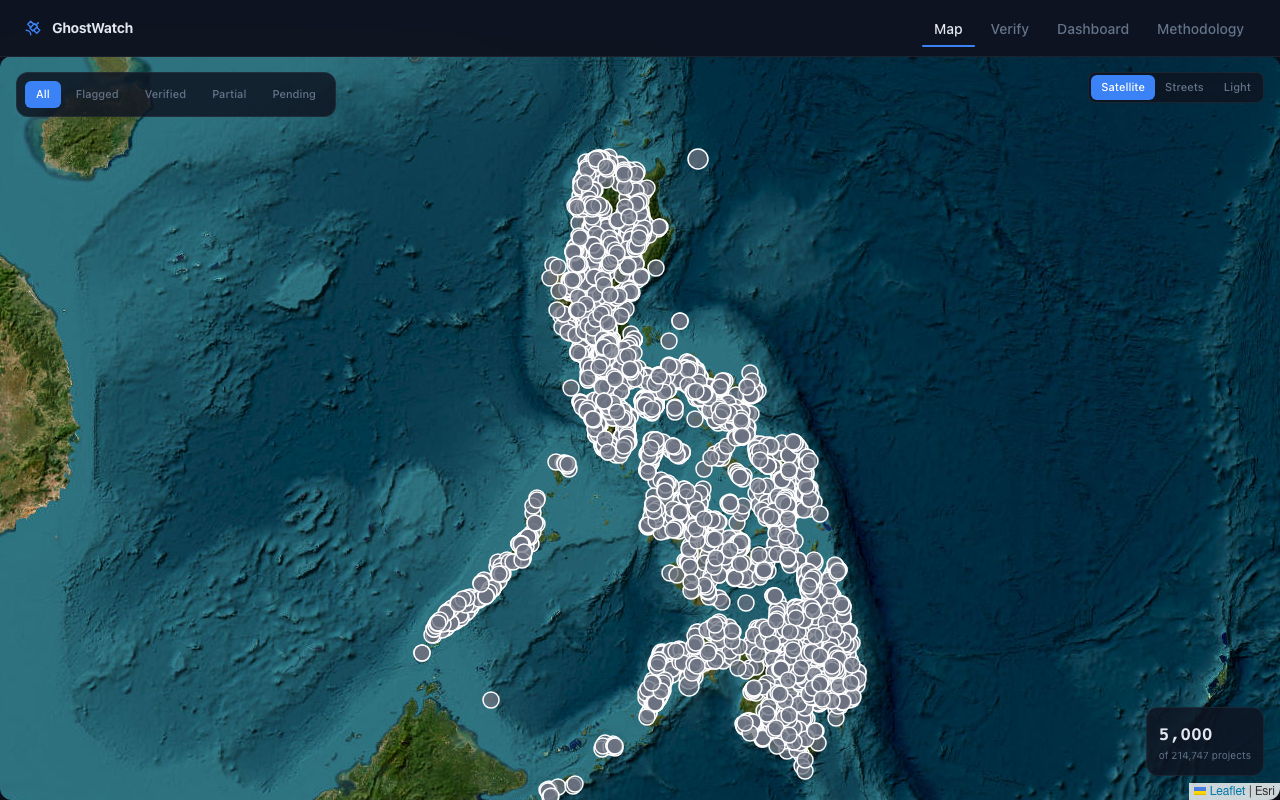
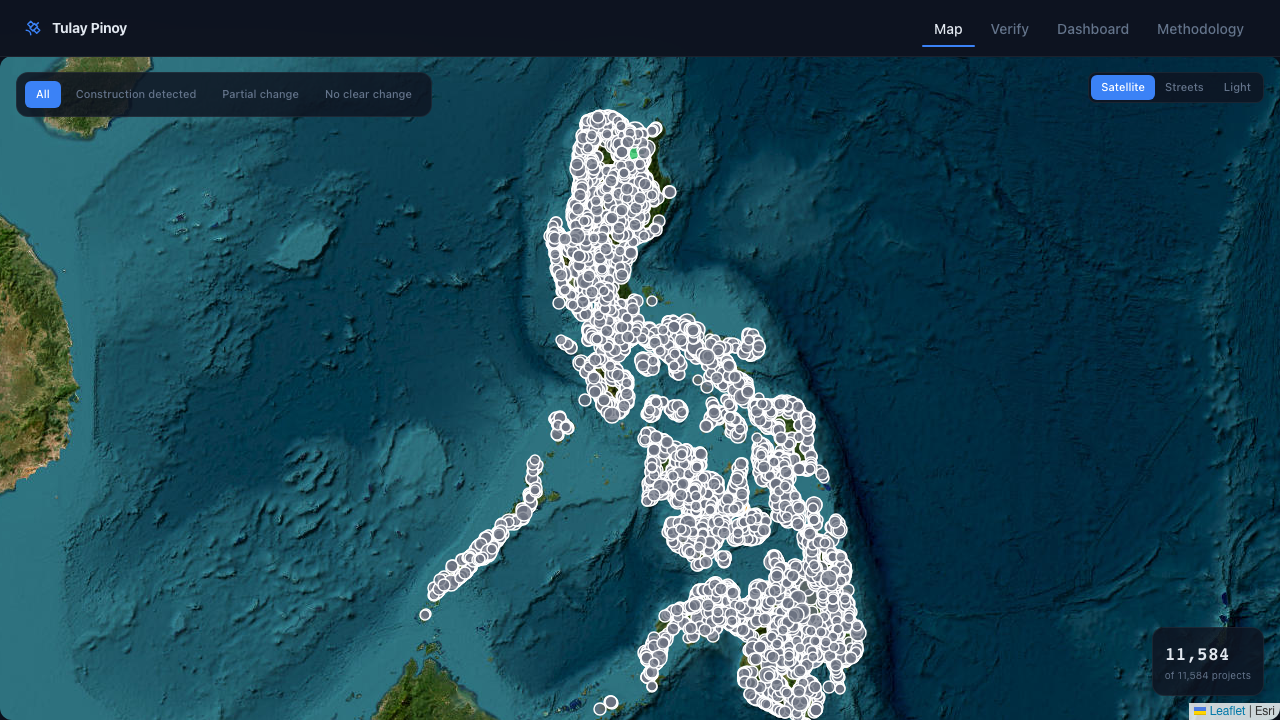
Public-ready: README, docs, real live demo, classifier threshold
- Rewrite the README lead around the live tulaypinoy.ph deployment and the
  "offline tool, now deployed" story; remove the unverified Panguil Bay Bridge
  claim and the ghost-framed demo GIFs.
- Replace demo assets with a real recording and screenshots of the live site
  (docs/demo/tour.gif, docs/screenshots/*).
- Document the static build pipeline (bake_bridges, bake_satellite, vercel).
- Add the standard doc set: CITATION.cff, CHANGELOG, CONTRIBUTING, SECURITY,
  CODE_OF_CONDUCT.
- Wire ghost_confidence_threshold through is_ghost_project (was a hardcoded
  literal) and reconcile the methodology copy: for bridges, no clear signal is
  reported as inconclusive, never as a ghost flag.

diff --git a/web/src/app/methodology/page.tsx b/web/src/app/methodology/page.tsx
@@ -139,10 +139,10 @@ export default function MethodologyPage() {
                     color: "var(--color-partial)",
                   },
                   {
-                    label: "No Change",
+                    label: "No Clear Change",
                     condition: "Below all thresholds",
-                    interp: "No detectable construction activity",
-                    color: "var(--color-ghost)",
+                    interp: "Inconclusive — often a span below 10m resolution, not a missing bridge",
+                    color: "var(--color-text-muted)",
                   },
                 ].map((row) => (
                   <tr
@@ -175,8 +175,13 @@ export default function MethodologyPage() {
             </table>
           </div>
           <p className="mt-3 text-xs leading-relaxed" style={{ color: "var(--color-text-muted)" }}>
-            Flag determination applies only to projects marked &quot;completed&quot; by the reporting
-            agency. &quot;No Change&quot; with confidence ≥ 0.70 triggers a review flag.
+            On this site a completed bridge with no clear satellite signal is reported as
+            <strong> inconclusive — never flagged as a ghost</strong>. Bridge spans are usually
+            narrow and over water, below what 10m optical imagery can resolve, so the absence of
+            a signal is not evidence the bridge is missing. The open-source tool can flag
+            completed-but-no-change projects for review (configurable confidence threshold,
+            default 0.70); for bridges that capability is deliberately held back in favor of an
+            honest &quot;inconclusive&quot;.
           </p>
         </section>
 

diff --git a/scripts/bake_satellite.py b/scripts/bake_satellite.py
@@ -88,9 +88,7 @@ def init_gee():
             ee.Initialize(creds)
             print(f"GEE initialized via service account: {key['client_email']}")
             return ee
-    raise SystemExit(
-        "No GEE service-account key found. Set GHOSTWATCH_EE_KEY to a key JSON path."
-    )
+    raise SystemExit("No GEE service-account key found. Set GHOSTWATCH_EE_KEY to a key JSON path.")
 
 
 def composite(ee, region, start, end):
@@ -146,7 +144,8 @@ def main():
                 ndbi = swir.subtract(nir).divide(swir.add(nir)).rename("NDBI")
                 ndvi = nir.subtract(red).divide(nir.add(red)).rename("NDVI")
                 bsi = (
-                    swir.add(red).subtract(nir.add(blue))
+                    swir.add(red)
+                    .subtract(nir.add(blue))
                     .divide(swir.add(red).add(nir.add(blue)))
                     .rename("BSI")
                 )
@@ -176,18 +175,22 @@ def main():
                 rgb_ok = export_png(rgb_url, tile_dir / f"{label_short(label)}_rgb.png")
                 ndbi_ok = export_png(ndbi_url, tile_dir / f"{label_short(label)}_ndbi.png")
 
-                stats = ee.Image([ndbi, ndvi, bsi]).reduceRegion(
-                    reducer=ee.Reducer.mean(), geometry=region, scale=10, maxPixels=1e7
-                ).getInfo()
+                stats = (
+                    ee.Image([ndbi, ndvi, bsi])
+                    .reduceRegion(
+                        reducer=ee.Reducer.mean(), geometry=region, scale=10, maxPixels=1e7
+                    )
+                    .getInfo()
+                )
                 metrics[label] = {
                     "ndbi": stats.get("NDBI"),
                     "ndvi": stats.get("NDVI"),
                     "bsi": stats.get("BSI"),
                 }
-                print(
-                    f"  {label}: RGB={'ok' if rgb_ok else 'FAIL'} NDBI={'ok' if ndbi_ok else 'FAIL'}"
-                    f"  ndbi={fmt(stats.get('NDBI'))} ndvi={fmt(stats.get('NDVI'))} bsi={fmt(stats.get('BSI'))}"
-                )
+                n, v, b = fmt(stats.get("NDBI")), fmt(stats.get("NDVI")), fmt(stats.get("BSI"))
+                rgb_s = "ok" if rgb_ok else "FAIL"
+                ndbi_s = "ok" if ndbi_ok else "FAIL"
+                print(f"  {label}: RGB={rgb_s} NDBI={ndbi_s}  ndbi={n} ndvi={v} bsi={b}")
                 if not (rgb_ok and ndbi_ok) or stats.get("NDBI") is None:
                     ok = False
 

diff --git a/scripts/bake_bridges.py b/scripts/bake_bridges.py
@@ -214,9 +214,7 @@ def build_charts(br: pd.DataFrame) -> dict:
 
     # Completion rate by region — bar
     total_by_reg = br[br["region"] != ""].groupby("region").size()
-    comp_by_reg = (
-        br[(br["region"] != "") & (br["status"] == "COMPLETED")].groupby("region").size()
-    )
+    comp_by_reg = br[(br["region"] != "") & (br["status"] == "COMPLETED")].groupby("region").size()
     regional = []
     for region in reg["region"]:
         t = int(total_by_reg.get(region, 0))
@@ -238,9 +236,7 @@ def build_charts(br: pd.DataFrame) -> dict:
     for year in sorted(yr["infra_year"].unique()):
         sub = yr[yr["infra_year"] == year]
         total_val = float(sub["contract_amount"].fillna(0).sum()) / 1e9
-        comp_val = (
-            float(sub[sub["status"] == "COMPLETED"]["contract_amount"].fillna(0).sum()) / 1e9
-        )
+        comp_val = float(sub[sub["status"] == "COMPLETED"]["contract_amount"].fillna(0).sum()) / 1e9
         yearly.append(
             {
                 "year": str(year),
@@ -290,7 +286,8 @@ def build_bridges_geojson(br: pd.DataFrame) -> dict:
         )
     fc = {"type": "FeatureCollection", "features": features}
     return envelope(
-        fc, meta={"query_time_ms": 0, "feature_count": len(features), "total_matching": len(features)},
+        fc,
+        meta={"query_time_ms": 0, "feature_count": len(features), "total_matching": len(features)},
         disclaimer=False,
     )
 
@@ -356,7 +353,7 @@ def main() -> None:
         conf = {pid: r["confidence"] for pid, r in showcase.items()}
         br["satellite_score"] = br["id"].map(conf)
 
-    print(f"Bridges: {len(br)}  with coords: {int(br[['lat','lng']].notna().all(axis=1).sum())}")
+    print(f"Bridges: {len(br)}  with coords: {int(br[['lat', 'lng']].notna().all(axis=1).sum())}")
     print(f"Showcase verifications merged: {len(showcase)}")
 
     OUT.mkdir(parents=True, exist_ok=True)
@@ -368,7 +365,10 @@ def main() -> None:
 
     manifest = {
         "built_at": datetime.now(timezone.utc).isoformat(timespec="seconds"),
-        "source": "DPWH transparency data (HuggingFace bettergovph/dpwh-transparency-data), category == bridges",
+        "source": (
+            "DPWH transparency data (HuggingFace bettergovph/dpwh-transparency-data), "
+            "category == bridges"
+        ),
         "total_bridges": len(br),
         "bridges_with_coordinates": int(br[["lat", "lng"]].notna().all(axis=1).sum()),
         "total_contract_value_php": float(br["contract_amount"].fillna(0).sum()),
@@ -379,8 +379,8 @@ def main() -> None:
 
     for name, h in hashes.items():
         size = (OUT / name).stat().st_size
-        print(f"  {name:16} {size/1024:8.1f} KB  {h[:12]}")
-    print(f"Wrote {len(hashes)+1} files to {OUT}")
+        print(f"  {name:16} {size / 1024:8.1f} KB  {h[:12]}")
+    print(f"Wrote {len(hashes) + 1} files to {OUT}")
 
 
 if __name__ == "__main__":

diff --git a/ghostwatch/core/classifier.py b/ghostwatch/core/classifier.py
@@ -85,16 +85,23 @@ def is_ghost_project(
     status: str,
     classification: ChangeClass,
     confidence: float,
-    threshold: float = 0.70,
+    threshold: float | None = None,
 ) -> tuple[bool, str]:
     """Determine if a project should be flagged for review.
 
     A project is flagged when it is reported as completed but satellite
     analysis shows no evidence of construction activity.
 
+    When ``threshold`` is None the configurable ``ghost_confidence_threshold``
+    setting is used (default 0.70), so the documented threshold is the one that
+    actually drives the flag.
+
     Returns:
         (flagged, reason_string)
     """
+    if threshold is None:
+        threshold = get_settings().ghost_confidence_threshold
+
     if status != "completed":
         return False, "project_not_completed"
 

diff --git a/README.md b/README.md
@@ -4,53 +4,33 @@
 [![Python 3.11+](https://img.shields.io/badge/python-3.11+-blue.svg)](https://www.python.org/downloads/)
 [![Next.js 14](https://img.shields.io/badge/Next.js-14-black.svg)](https://nextjs.org/)
 
-Satellite verification of government infrastructure — see it from space.
+Satellite verification of public infrastructure: see whether it was built, from space.
 
-GhostWatch cross-references government contract records against Sentinel-2 satellite imagery to surface projects reported as complete with no visible construction evidence. It ingests 248,220 DPWH infrastructure projects totaling PHP 6.38 trillion, computes spectral change indices across before/after satellite composites, and classifies each site into one of five construction-evidence categories. Projects flagged for review are surfaced through a dark-themed web dashboard with before/after satellite sliders, an interactive map of all 214,747 geolocated sites, and regional analytics.
+GhostWatch is an open-source tool. Point it at a government's infrastructure records and it cross-references each project against free Sentinel-2 satellite imagery, computing before/after spectral change to look for visible construction. It ships as a Python pipeline, a FastAPI backend, and a Next.js dashboard you can clone and run locally against the full 248,220-project Philippine DPWH dataset (PHP 6.38 trillion in contracts, 214,747 geolocated sites).
 
-<p align="center">
-  <img src="docs/demo/tour.gif" alt="GhostWatch Demo" width="800">
-</p>
-
-<p align="center"><em>248,220 real DPWH projects — satellite map explorer, budget analytics, spectral methodology, and regional breakdown across 18 regions and PHP 6.38 trillion in contracts.</em></p>
-
-### Satellite Verification
+**Live: [tulaypinoy.ph](https://tulaypinoy.ph)** — a curated, fully static, bridges-only build of this tool, deployed on Vercel with no backend. Every one of the Philippines' 12,558 DPWH bridge projects (PHP 382.4 billion), mapped from the public record, plus a Sentinel-2 before/after showcase over 16 real completed bridges. The Python pipeline runs at build time and bakes real data into static JSON and PNG the site reads directly off the edge. A few months ago this was an offline tool anyone could clone and deploy; this is what deploying it looks like.
 
 <p align="center">
-  <img src="docs/demo/construction-timeline.gif" alt="Construction Detected from Satellite" width="800">
+  <img src="docs/demo/tour.gif" alt="Tulay Pinoy live tour" width="800">
 </p>
 
-<p align="center"><em>Real construction is visible from space — Panguil Bay Bridge (PHP 6.7B) goes from open water to a completed span between 2020 and 2024.</em></p>
+<p align="center"><em><a href="https://tulaypinoy.ph">tulaypinoy.ph</a> — 12,558 DPWH bridges mapped from public data, with a real Sentinel-2 before/after showcase.</em></p>
 
-<p align="center">
-  <img src="docs/demo/ghost-timeline.gif" alt="Ghost Project Satellite Timeline" width="800">
-</p>
+### What the satellite actually shows
 
-<p align="center"><em>Ghost projects are not — 4 completed projects totaling PHP 6.3B show zero visible construction activity in the same period.</em></p>
-
-<p align="center">
-  <img src="docs/demo/before-after.gif" alt="Before/After Satellite Comparison" width="800">
-</p>
-
-<p align="center"><em>Side-by-side comparison — 3 projects with visible construction vs 3 flagged projects with no detectable change between 2020 and 2024.</em></p>
-
-<p align="center">
-  <img src="docs/demo/verify.gif" alt="Satellite Verification UI" width="800">
-</p>
-
-<p align="center"><em>Before/after satellite slider with real Sentinel-2 imagery, spectral index changes (NDBI/NDVI/BSI), and confidence scoring per project.</em></p>
+At 10-meter resolution, free optical satellite reliably picks up construction on large land footprints (interchanges, bypass embankments) but often cannot resolve a narrow bridge span over water: the built-up signal is swamped by a buffer that is mostly water and banks. So the showcase reports three honest states, construction detected, partial change, and no clear change (inconclusive), and never labels a real, completed bridge a "ghost." A satellite read is a prompt for review, not a verdict. Of the 16 bridges checked, 1 shows clear construction, 6 show partial change, and 9 fall below what 10-meter imagery can resolve.
 
 ### Screenshots
 
 | Interactive Map | Analytics Dashboard |
 |:---:|:---:|
-| ![Map view](docs/screenshots/ghostwatch-map.png) | ![Dashboard](docs/screenshots/ghostwatch-dashboard.png) |
+| ![Map view](docs/screenshots/map.png) | ![Dashboard](docs/screenshots/dashboard.png) |
 
-| Hero Landing | Methodology |
+| Satellite Showcase | Methodology |
 |:---:|:---:|
-| ![Hero](docs/screenshots/ghostwatch-hero.png) | ![Methodology](docs/screenshots/ghostwatch-methodology.png) |
+| ![Verify](docs/screenshots/verify.png) | ![Methodology](docs/screenshots/methodology.png) |
 
-<p align="center"><em>Dark cinematic UI — satellite map overlay, real-time budget charts, spectral index reference, and animated project counters.</em></p>
+<p align="center"><em>Dark cinematic UI: 11,584 geolocated bridges on a satellite basemap, budget and completion analytics, before/after spectral comparison, and the full methodology.</em></p>
 
 ---
 
@@ -151,6 +131,30 @@ ghostwatch verify 14.5995 120.9842 \
 ghostwatch serve           # API on :8000
 cd web && npm run dev      # UI on :3000
 ```
+
+---
+
+## Live deployment: tulaypinoy.ph
+
+[tulaypinoy.ph](https://tulaypinoy.ph) is a separate outcome from the local tool above: a curated, **bridges-only, fully static** snapshot served by Vercel with no backend. The Python pipeline runs once at build time and bakes real DPWH + satellite data into static files the Next.js app reads directly.
+
+```bash
+# 1. Bake the bridges dataset (real DPWH parquet -> static JSON, no GEE needed)
+python3 scripts/bake_bridges.py
+#   -> web/public/data/{overview,charts,bridges,cases}.json  (+ manifest)
+
+# 2. Bake the satellite showcase (Sentinel-2 before/after over 16 real bridges)
+GHOSTWATCH_EE_KEY=/path/to/ee-key.json python3 scripts/bake_satellite.py
+#   -> web/public/data/tiles/<id>/{before,after}_{rgb,ndbi}.png
+#   -> data/showcase/verifications.json   (then re-run bake_bridges to merge)
+python3 scripts/bake_bridges.py
+
+# 3. Build the static export and deploy
+cd web && npm run build    # output: 'export' -> web/out/
+vercel deploy --prod       # or push to main (git auto-deploy, rootDir=web)
+```
+
+The frontend ([`web/`](web/)) is the same dashboard as the local tool, switched to `output: 'export'` and reading `/data/*` instead of the API. `web/vercel.json` adds the security headers and edge caching. No mock data is used anywhere — every published number is recomputed from the DPWH parquet, and every satellite read is real Sentinel-2 model output, curated honestly (no real bridge is labeled a ghost). See [`scripts/bake_bridges.py`](scripts/bake_bridges.py) and [`scripts/bake_satellite.py`](scripts/bake_satellite.py).
 
 ---
 

diff --git a/CONTRIBUTING.md b/CONTRIBUTING.md
@@ -1,0 +1,39 @@
+# Contributing
+
+Thanks for your interest in GhostWatch.
+
+## Ground rules
+
+- **No mock or fabricated data.** Every published number must be computed from a
+  real source (the DPWH parquet) or a real model run (Sentinel-2 via GEE). Label
+  anything provisional.
+- **Conservative language.** A satellite read is a prompt for review, not a
+  verdict. Never label a real, named project a "ghost" or "fraud" in any
+  user-facing surface. Keep disclaimers on analytics output.
+- Match the existing code style. Python is 3.11+, `ruff` for lint/format; the
+  frontend is TypeScript + Next.js.
+
+## Development setup
+
+```bash
+pip install -e ".[dev]"        # Python library + CLI + tests
+cd web && npm install          # frontend
+```
+
+## Before opening a PR
+
+```bash
+ruff check . && ruff format --check .
+python3 -m pytest -q
+cd web && npm run build        # static export must succeed
+```
+
+- Add a test for any behavior change in the classifier, indices, or adapters.
+- If you change the live data shape, re-run `scripts/bake_bridges.py` and verify
+  the frontend still renders.
+- Update `CHANGELOG.md`.
+
+## Reporting issues
+
+Open a GitHub issue with steps to reproduce. For anything security-related, see
+[SECURITY.md](SECURITY.md).

diff --git a/CHANGELOG.md b/CHANGELOG.md
@@ -1,0 +1,36 @@
+# Changelog
+
+All notable changes to this project are documented here. Format loosely follows
+[Keep a Changelog](https://keepachangelog.com/).
+
+## [1.0.0] - 2026-06-04
+
+### Added
+- **Live deployment at [tulaypinoy.ph](https://tulaypinoy.ph)** — a curated,
+  bridges-only, fully static build served by Vercel with no backend.
+- `scripts/bake_bridges.py` — bakes the bridges subset of the DPWH dataset
+  (12,558 bridges, 11,584 geolocated, PHP 382.4B) into static JSON
+  (`overview`, `charts`, `bridges` GeoJSON, `cases`) the frontend reads directly.
+- `scripts/bake_satellite.py` — Sentinel-2 before/after change-detection over a
+  curated set of 16 real completed bridges; exports RGB + NDBI tiles and a
+  per-bridge verification record. Reuses a GEE service-account key.
+- Static export of the Next.js dashboard (`output: 'export'`), reading
+  `/data/*` instead of the API; `web/vercel.json` with CSP/HSTS security headers
+  and `/data` edge caching + CORS.
+- `INCONCLUSIVE` verification state: a completed bridge with no clear satellite
+  signal is reported as inconclusive (often a span below 10m resolution), never
+  flagged as a "ghost."
+
+### Changed
+- Frontend rebranded to **Tulay Pinoy**; conservative civic language and a
+  disclaimer on every analytics surface.
+- Map renders all geolocated bridges via a canvas renderer for performance.
+
+### Fixed / Hardened
+- API CORS locked to GET-only without credentials.
+- Tile `project_id` sanitized against path traversal.
+- Removed the unused `admin_api_key`.
+- `ghost_confidence_threshold` is now wired through `is_ghost_project` instead of
+  a hardcoded literal.
+- Removed an unverified "Panguil Bay Bridge" claim from the README and replaced
+  the demo assets with real recordings/screenshots of the live site.

diff --git a/SECURITY.md b/SECURITY.md
@@ -1,0 +1,23 @@
+# Security Policy
+
+## Reporting a vulnerability
+
+Please report security issues privately by email to **[email redacted]** rather
+than opening a public issue. Include steps to reproduce and the affected
+component (Python pipeline, FastAPI backend, or the static site).
+
+You can expect an acknowledgement within a few days.
+
+## Scope
+
+- The public deployment at [tulaypinoy.ph](https://tulaypinoy.ph) is a static
+  site with no backend and no user data — it serves only pre-computed public
+  records and satellite imagery.
+- The bundled FastAPI backend is intended for local/self-hosted use. It is
+  read-only, unauthenticated by design, rate-limited per IP, and serves only
+  public data. Do not expose it publicly without your own auth and hardening.
+
+## Data sensitivity
+
+All data is public record (DPWH transparency dataset, free Sentinel-2 imagery).
+No personal data is collected or stored.

diff --git a/CODE_OF_CONDUCT.md b/CODE_OF_CONDUCT.md
@@ -1,0 +1,14 @@
+# Code of Conduct
+
+This project adopts the [Contributor Covenant](https://www.contributor-covenant.org/version/2/1/code_of_conduct/),
+version 2.1.
+
+In short: be respectful, assume good faith, and keep discussion focused on the
+work. Harassment, personal attacks, and discrimination are not tolerated.
+
+Because this project touches public accountability data, one project-specific
+expectation: discuss findings carefully and conservatively. A satellite signal
+is a prompt for review, not an accusation against any person or contractor.
+
+Report unacceptable behavior to **[email redacted]**. Reports will be handled
+confidentially.